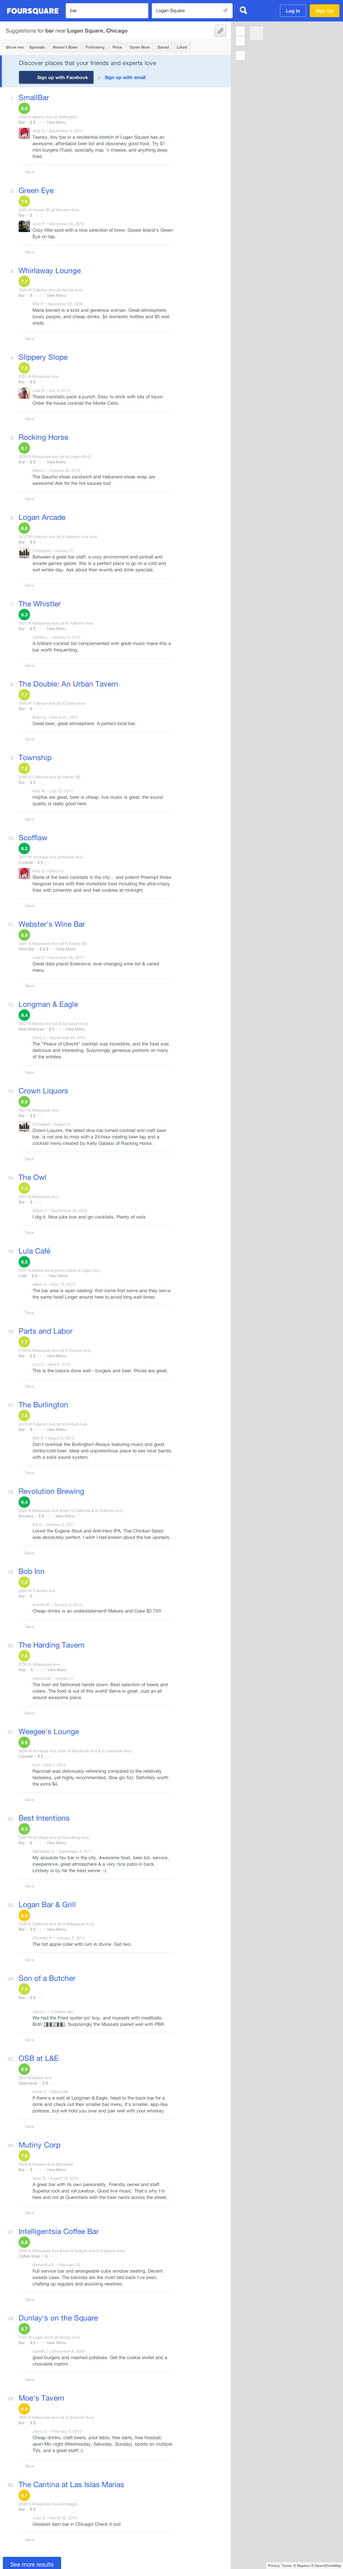
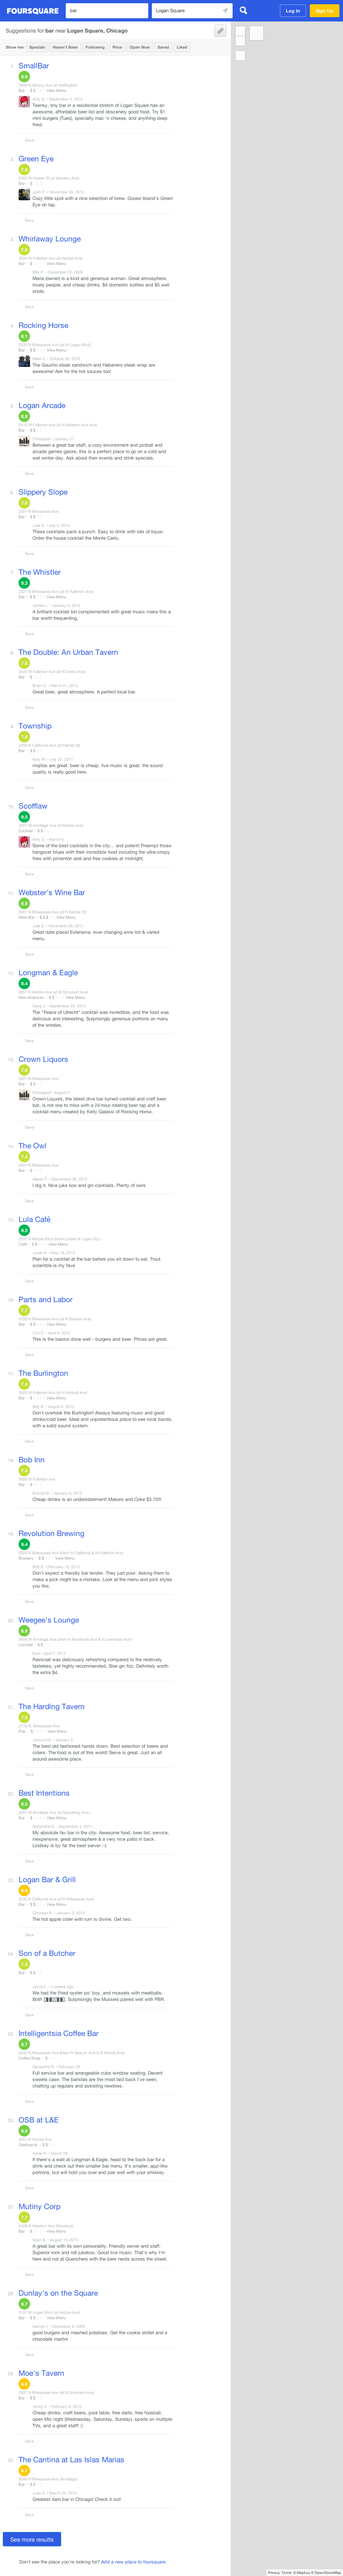
Loop through bar list

Changed region(s): [[0.0, 0.0, 0.6875, 1.0], [0.3125, 0.4053, 0.375, 0.4365], [0.4375, 0.8418, 0.4688, 0.8729]]

diff --git a/foursquare.js b/foursquare.js
@@ -78,55 +78,63 @@ do { phantom.page.sendEvent('mousemove'); } while (page.evaluate(function() {
 console.log('Search finished!');
 page.render(screenshotPath + screenshotNum++ + '.png');
 
-//TODO: Get list of bars
-page.evaluate(function() {
-  // Head to bar page
-  var ev = document.createEvent('MouseEvents');
-  ev.initEvent('click', true, true);
-  var element = document.querySelector('.venueName h2 a');
-  
-  // Remove target=_blank from link
-  element.removeAttribute('target');
-  
-  element.dispatchEvent(ev);
+// Get list of bars
+var barList = page.evaluate(function() {
+  var venueElements = document.querySelectorAll('.venueName h2 a');
+  var barLinkList = [];
+  for (var i = 0; i < venueElements.length; ++i) {
+    barLinkList.push(venueElements[i].href);
+  }
+  return barLinkList;
 });
-do { phantom.page.sendEvent('mousemove'); } while (page.evaluate(function() { 
-  var isVisible = document.getElementById('actionBar');
-  if(isVisible) return false;
-  else return true;
-}));
-console.log('Opened bar page!');
-page.render(screenshotPath + screenshotNum++ + '.png');
 
-// Save bar information
-page.evaluate(function() {
-  var barInformation = {};
-  barInformation.name = document.querySelector('.venueName').innerText;
-  barInformation.address = document.querySelector('.adr').innerText;
-  barInformation.telephone = document.querySelector('.tel').innerText;
-  barInformation.price = document.querySelector('[itemprop=priceRange]').innerText.replace(/\s+/g, '');
-  barInformation.website = document.querySelector('.url').href;
+for (var i = 0; i < barList.length; i++) {
+  getBarInformation(barList[i]);
+}
+
+function getBarInformation(barUrl) {
+  console.log('Getting information for: ' + barUrl + '\n');
+  // Open bar page
+  page.open(barUrl);
+  do { phantom.page.sendEvent('mousemove'); } while (page.loading || page.evaluate(function() { 
+    var isVisible = document.getElementById('actionBar');
+    if(isVisible) return false;
+    else return true;
+  }));
+  console.log('Bar page loaded!');
+  page.render(screenshotPath + screenshotNum++ + '.png');
   
-  // Outdoor seating has no ID's or specific classes
-  var venueSecondaryAttr = document.querySelectorAll('.venueAttr, .secondaryAttr');
-  for (i = 0; i < venueSecondaryAttr.length; ++i) {
-    var attrKey = venueSecondaryAttr[i].firstElementChild.innerText;
-    if(attrKey.match('Outdoor Seating')) {
-      barInformation.outdoorSeating = venueSecondaryAttr[i].lastElementChild.innerText;
+  // Save bar information
+  page.evaluate(function() {
+    var barInformation = {};
+    barInformation.name = document.querySelector('.venueName').innerText;
+    console.log(barInformation.name);
+    barInformation.address = document.querySelector('.adr').innerText;
+    barInformation.telephone = document.querySelector('.tel').innerText;
+    barInformation.price = document.querySelector('[itemprop=priceRange]').innerText.replace(/\s+/g, '');
+    barInformation.website = document.querySelector('.url').href;
+    
+    // Outdoor seating has no ID's or specific classes
+    var venueSecondaryAttr = document.querySelectorAll('.venueAttr, .secondaryAttr');
+    for (i = 0; i < venueSecondaryAttr.length; ++i) {
+      var attrKey = venueSecondaryAttr[i].firstElementChild.innerText;
+      if(attrKey.match('Outdoor Seating')) {
+        barInformation.outdoorSeating = venueSecondaryAttr[i].lastElementChild.innerText;
+      }
     }
-  }
-  
-  // Get list of reviews
-  var reviewsList = document.getElementById('tipsList').children;
-  for (var j = 0; j < reviewsList.length; ++j) {
-    var tipContents = reviewsList[j].lastElementChild.children;
-    barInformation.reviews = [];
-    var barReview = {};
-    barReview.text = tipContents[0].innerText;
-    barReview.date = tipContents[1].children[1].innerText;
-    barInformation.reviews.push(barReview);
-  }
-});
+    
+    // Get list of reviews
+    var reviewsList = document.getElementById('tipsList').children;
+    for (var j = 0; j < reviewsList.length; ++j) {
+      var tipContents = reviewsList[j].lastElementChild.children;
+      barInformation.reviews = [];
+      var barReview = {};
+      barReview.text = tipContents[0].innerText;
+      barReview.date = tipContents[1].children[1].innerText;
+      barInformation.reviews.push(barReview);
+    }
+  });
+}
 
 
 phantom.exit();
